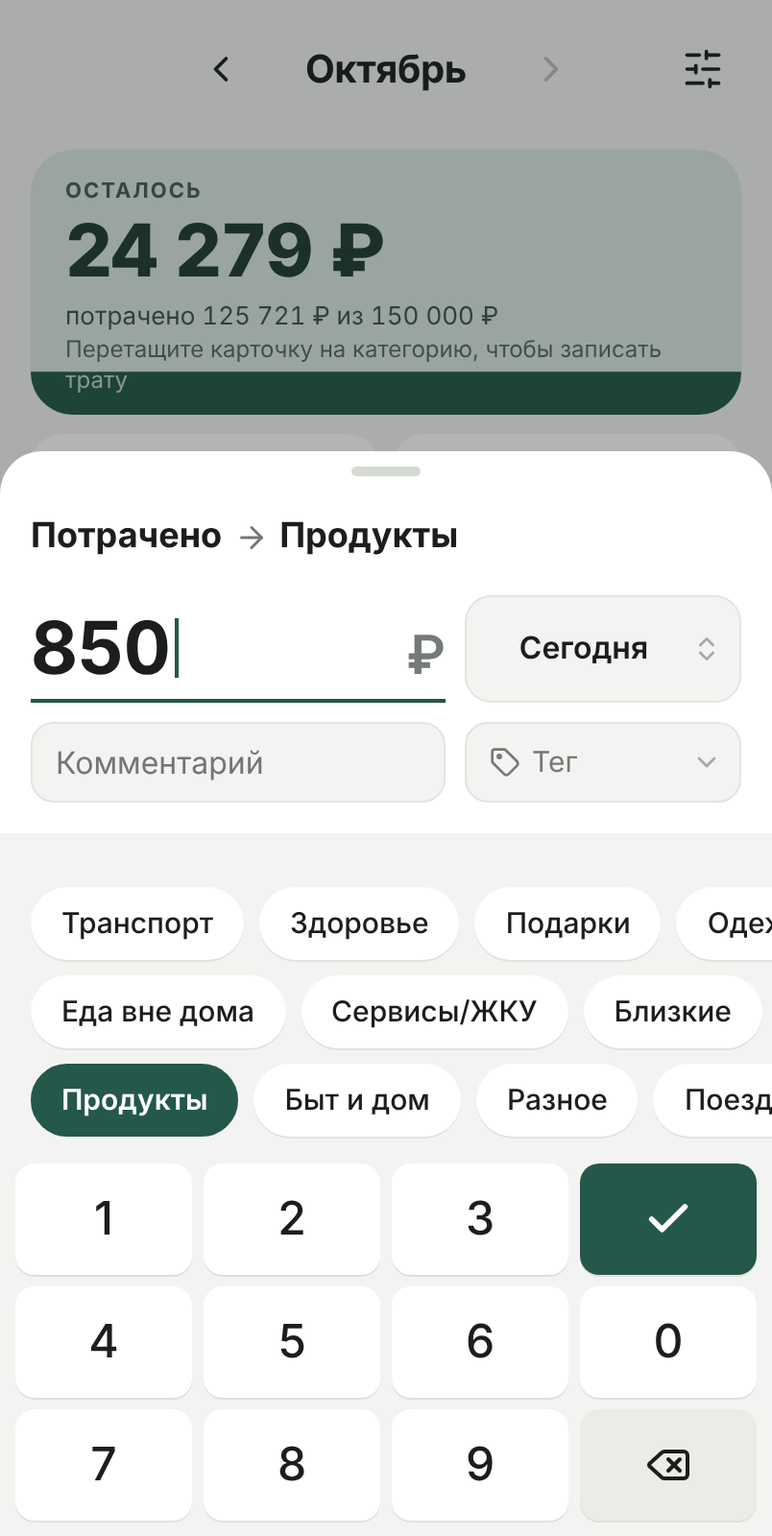
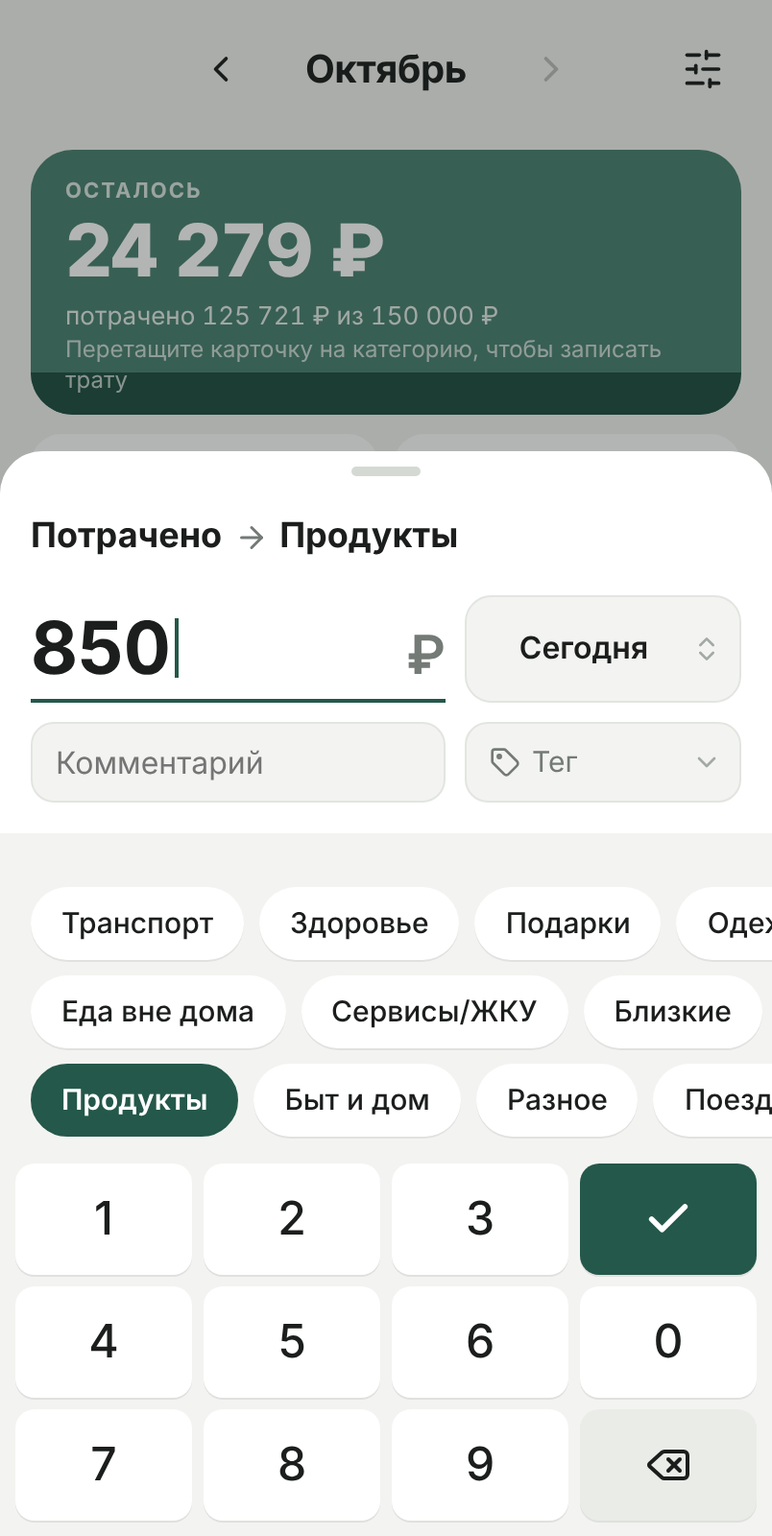
v14: карточка бюджета — мягкий уровень, тёмная и светлая на выбор
Claude-Session: https://claude.ai/code/session_01NUxBgaGxyd5sUVsPmVs4HK

Changed region(s): [[0.0311, 0.0938, 0.9639, 0.25]]

diff --git a/index.html b/index.html
@@ -26,7 +26,6 @@
   --track: #E6E9E4;
   --accent: #24584A;
   --accent-ink: #FFFFFF;
-  --level-light: #DCE7E0;
   --level-ink: #1F3B32;
   --danger: #D2382A;
   --danger-tint: #FCE9E6;
@@ -72,14 +71,15 @@ body.toasting .month { opacity: 0; }
 .demo { display: flex; align-items: center; gap: 12px; justify-content: space-between; background: #FFF6DD; color: #6A5312; border-radius: 14px; padding: 10px 12px; font-size: 13px; }
 .demo button { font-weight: 600; white-space: nowrap; color: #6A5312; text-decoration: underline; }
 
-/* Budget card as a level: dark fill = what is left of the month's budget, sinking as money is spent.
-   Two identical layers; the dark one is clipped to the fill height so text changes colour where the level crosses it. */
+/* Budget card as a level: the "water" = what is left of the month's budget, sinking as money is spent.
+   Water and the empty part are close in tone, so the text keeps one colour over both and is never cut by the waterline.
+   Two looks, switched in settings (S.settings.card): dark (default) and light. */
 .budget { display: block; }
-.bcard { position: relative; display: block; width: 100%; height: 138px; border-radius: 22px; overflow: hidden; text-align: left; touch-action: none; user-select: none; -webkit-user-select: none; -webkit-touch-callout: none; transition: transform .15s, opacity .15s; }
+.bcard { --top: #4A8070; --water: #1F4F42; --ink: #fff; position: relative; display: block; width: 100%; height: 138px; border-radius: 22px; overflow: hidden; text-align: left; background: var(--top); color: var(--ink); touch-action: none; user-select: none; -webkit-user-select: none; -webkit-touch-callout: none; transition: transform .15s, opacity .15s; }
+.bcard.light { --top: var(--surface); --water: #BFD5C7; --ink: var(--level-ink); }
+.bcard.over { --top: var(--danger-tint); --ink: var(--danger); }
+.bcard .water { position: absolute; left: 0; right: 0; bottom: 0; background: var(--water); }
 .bcard .layer { position: absolute; inset: 0; padding: 14px 18px 12px; display: flex; flex-direction: column; }
-.bcard .l1 { background: var(--level-light); color: var(--level-ink); }
-.bcard .l2 { background: var(--accent); color: #fff; }
-.bcard.over .l1 { background: var(--danger-tint); color: var(--danger); }
 .bcard .lab { font-size: 11px; letter-spacing: .09em; font-weight: 700; text-transform: uppercase; opacity: .8; }
 .bcard .big { font-family: var(--font-num); font-size: 38px; font-weight: 800; letter-spacing: -0.02em; line-height: 1.1; margin-top: 4px; font-variant-numeric: tabular-nums; white-space: nowrap; }
 .bcard .sp { font-size: 13px; margin-top: 4px; opacity: .85; font-variant-numeric: tabular-nums; }
@@ -541,11 +541,17 @@ function seed() {
     [9, 7270, 17, 'Билеты на поезд'],
   ];
   const tx = ex.map(([c, amount, dd, comment]) => ({ id: uid(), cat: cats[c].id, amount, date: day(dd), comment, demo: true }));
-  return { v: 1, budget: { [ym]: 150000 }, categories: cats, tx, tags: [], settings: { pace: false } };
+  return { v: 1, budget: { [ym]: 150000 }, categories: cats, tx, tags: [], settings: { pace: false, card: 'dark' } };
 }
 function load() {
-  try { const raw = localStorage.getItem(KEY); if (raw) { const d = JSON.parse(raw); if (d && Array.isArray(d.categories) && Array.isArray(d.tx)) { if (!Array.isArray(d.tags)) d.tags = []; return d; } } } catch (e) {}
+  try { const raw = localStorage.getItem(KEY); if (raw) { const d = JSON.parse(raw); if (d && Array.isArray(d.categories) && Array.isArray(d.tx)) { if (!Array.isArray(d.tags)) d.tags = []; fixSettings(d); return d; } } } catch (e) {}
   const s = seed(); S = s; save(); return s;
+}
+// settings added later than the data format: fill defaults so older data and imported copies keep working
+function fixSettings(d) {
+  d.settings = d.settings || {};
+  if (typeof d.settings.pace !== 'boolean') d.settings.pace = false;
+  if (d.settings.card !== 'light') d.settings.card = 'dark';
 }
 function save() {
   try { localStorage.setItem(KEY, JSON.stringify(S)); }
@@ -617,9 +623,9 @@ function render() {
   if (budget == null) body = cardBody('Потрачено', rub(total), 'Бюджет на месяц не задан');
   else if (over) body = cardBody('Перерасход', '−' + rub(-left), `потрачено ${rub(total)} из ${rub(budget)}`);
   else { body = cardBody('Осталось', rub(left), `потрачено ${rub(total)} из ${rub(budget)}`); level = left / budget; }
-  $('#budget').innerHTML = `<button class="bcard ${over ? 'over' : ''}" id="budget-src" aria-label="Добавить трату. Зажмите и перетащите на категорию">
-    <span class="layer l1">${body}</span>
-    ${level != null ? `<span class="layer l2" aria-hidden="true" style="clip-path: inset(${((1 - level) * 100).toFixed(2)}% 0 0 0)">${body}</span>` : ''}
+  $('#budget').innerHTML = `<button class="bcard ${S.settings.card === 'light' ? 'light' : ''} ${over ? 'over' : ''}" id="budget-src" aria-label="Добавить трату. Зажмите и перетащите на категорию">
+    ${level != null ? `<span class="water" aria-hidden="true" style="height: ${(level * 100).toFixed(2)}%"></span>` : ''}
+    <span class="layer">${body}</span>
   </button>`;
   setupDrag($('#budget-src'));
 
@@ -1272,9 +1278,9 @@ function animateChange(before, catId, RM) {
     const was = budget - before.total, now = budget - after.total;
     if (was >= 0 && now >= 0) {
       countUp(bigs, was, now, rub);
-      const l2 = $('#budget .l2');
-      if (l2) {
-        const a3 = l2.animate([{ clipPath: `inset(${((1 - was / budget) * 100).toFixed(2)}% 0 0 0)` }, { clipPath: l2.style.clipPath }], { duration: 520, easing: 'cubic-bezier(.3,.7,.3,1)' });
+      const w = $('#budget .water');
+      if (w) {
+        const a3 = w.animate([{ height: `${(was / budget * 100).toFixed(2)}%` }, { height: w.style.height }], { duration: 520, easing: 'cubic-bezier(.3,.7,.3,1)' });
         anims.push(() => a3.cancel());
       }
     }
@@ -1533,6 +1539,13 @@ function openSettings() {
     <hr>
     <button class="setrow" id="st-tags"><span class="grow">Теги</span><span class="sub" id="st-tags-n">${S.tags.length}/15</span>${icon('right')}</button>
     <hr>
+    <div class="field"><span>Карточка бюджета</span>
+      <div class="seg" role="radiogroup">
+        <label><input type="radio" name="st-card" value="dark" ${S.settings.card !== 'light' ? 'checked' : ''}>Тёмная</label>
+        <label><input type="radio" name="st-card" value="light" ${S.settings.card === 'light' ? 'checked' : ''}>Светлая</label>
+      </div>
+    </div>
+    <hr>
     <label class="switch"><input type="checkbox" id="st-pace" ${S.settings.pace ? 'checked' : ''}>
       <span><b>Подсвечивать темп трат</b><br><span class="sub">Сравниваем текущие расходы с остатком месяца. Первые дни месяца считаются как 12% лимита, чтобы одна покупка не окрашивала всё в красный. Если выключено, красным выделяется только перерасход.</span>
       <span class="legend"><span><i class="dot" style="background:${STATE_COLOR.idle}"></i>нет трат</span><span><i class="dot" style="background:${STATE_COLOR.ok}"></i>в темпе</span><span><i class="dot" style="background:${STATE_COLOR.warn}"></i>чуть быстрее</span><span><i class="dot" style="background:${STATE_COLOR.over}"></i>заметно быстрее или перерасход</span></span></span>
@@ -1553,6 +1566,7 @@ function openSettings() {
     setLimitFrom(S.budget, view, v); save(); render(); toast('Бюджет сохранён');
   };
   $('#st-pace', s).onchange = (e) => { S.settings.pace = e.target.checked; save(); render(); };
+  s.querySelectorAll('input[name="st-card"]').forEach((r) => { r.onchange = () => { S.settings.card = r.value; save(); render(); }; });
   $('#st-export', s).onclick = () => exportData($('#st-out', s));
   $('#st-import', s).onclick = () => $('#import-file').click();
 }
@@ -1583,7 +1597,7 @@ $('#import-file').addEventListener('change', (e) => {
     try {
       const d = JSON.parse(r.result);
       if (!d || !Array.isArray(d.categories) || !Array.isArray(d.tx)) throw new Error();
-      d.settings = d.settings || { pace: false }; d.budget = d.budget || {}; if (!Array.isArray(d.tags)) d.tags = [];
+      fixSettings(d); d.budget = d.budget || {}; if (!Array.isArray(d.tags)) d.tags = [];
       S = d; save(); render(); closeSheet(); toast(`Загружено: ${d.categories.length} категорий, ${d.tx.length} трат`);
     } catch (_) { toast('Файл не похож на копию данных этого приложения'); }
   };

diff --git a/src/app.html b/src/app.html
@@ -12,7 +12,6 @@
   --track: #E6E9E4;
   --accent: #24584A;
   --accent-ink: #FFFFFF;
-  --level-light: #DCE7E0;
   --level-ink: #1F3B32;
   --danger: #D2382A;
   --danger-tint: #FCE9E6;
@@ -58,14 +57,15 @@ body.toasting .month { opacity: 0; }
 .demo { display: flex; align-items: center; gap: 12px; justify-content: space-between; background: #FFF6DD; color: #6A5312; border-radius: 14px; padding: 10px 12px; font-size: 13px; }
 .demo button { font-weight: 600; white-space: nowrap; color: #6A5312; text-decoration: underline; }
 
-/* Budget card as a level: dark fill = what is left of the month's budget, sinking as money is spent.
-   Two identical layers; the dark one is clipped to the fill height so text changes colour where the level crosses it. */
+/* Budget card as a level: the "water" = what is left of the month's budget, sinking as money is spent.
+   Water and the empty part are close in tone, so the text keeps one colour over both and is never cut by the waterline.
+   Two looks, switched in settings (S.settings.card): dark (default) and light. */
 .budget { display: block; }
-.bcard { position: relative; display: block; width: 100%; height: 138px; border-radius: 22px; overflow: hidden; text-align: left; touch-action: none; user-select: none; -webkit-user-select: none; -webkit-touch-callout: none; transition: transform .15s, opacity .15s; }
+.bcard { --top: #4A8070; --water: #1F4F42; --ink: #fff; position: relative; display: block; width: 100%; height: 138px; border-radius: 22px; overflow: hidden; text-align: left; background: var(--top); color: var(--ink); touch-action: none; user-select: none; -webkit-user-select: none; -webkit-touch-callout: none; transition: transform .15s, opacity .15s; }
+.bcard.light { --top: var(--surface); --water: #BFD5C7; --ink: var(--level-ink); }
+.bcard.over { --top: var(--danger-tint); --ink: var(--danger); }
+.bcard .water { position: absolute; left: 0; right: 0; bottom: 0; background: var(--water); }
 .bcard .layer { position: absolute; inset: 0; padding: 14px 18px 12px; display: flex; flex-direction: column; }
-.bcard .l1 { background: var(--level-light); color: var(--level-ink); }
-.bcard .l2 { background: var(--accent); color: #fff; }
-.bcard.over .l1 { background: var(--danger-tint); color: var(--danger); }
 .bcard .lab { font-size: 11px; letter-spacing: .09em; font-weight: 700; text-transform: uppercase; opacity: .8; }
 .bcard .big { font-family: var(--font-num); font-size: 38px; font-weight: 800; letter-spacing: -0.02em; line-height: 1.1; margin-top: 4px; font-variant-numeric: tabular-nums; white-space: nowrap; }
 .bcard .sp { font-size: 13px; margin-top: 4px; opacity: .85; font-variant-numeric: tabular-nums; }
@@ -524,11 +524,17 @@ function seed() {
     [9, 7270, 17, 'Билеты на поезд'],
   ];
   const tx = ex.map(([c, amount, dd, comment]) => ({ id: uid(), cat: cats[c].id, amount, date: day(dd), comment, demo: true }));
-  return { v: 1, budget: { [ym]: 150000 }, categories: cats, tx, tags: [], settings: { pace: false } };
+  return { v: 1, budget: { [ym]: 150000 }, categories: cats, tx, tags: [], settings: { pace: false, card: 'dark' } };
 }
 function load() {
-  try { const raw = localStorage.getItem(KEY); if (raw) { const d = JSON.parse(raw); if (d && Array.isArray(d.categories) && Array.isArray(d.tx)) { if (!Array.isArray(d.tags)) d.tags = []; return d; } } } catch (e) {}
+  try { const raw = localStorage.getItem(KEY); if (raw) { const d = JSON.parse(raw); if (d && Array.isArray(d.categories) && Array.isArray(d.tx)) { if (!Array.isArray(d.tags)) d.tags = []; fixSettings(d); return d; } } } catch (e) {}
   const s = seed(); S = s; save(); return s;
+}
+// settings added later than the data format: fill defaults so older data and imported copies keep working
+function fixSettings(d) {
+  d.settings = d.settings || {};
+  if (typeof d.settings.pace !== 'boolean') d.settings.pace = false;
+  if (d.settings.card !== 'light') d.settings.card = 'dark';
 }
 function save() {
   try { localStorage.setItem(KEY, JSON.stringify(S)); }
@@ -600,9 +606,9 @@ function render() {
   if (budget == null) body = cardBody('Потрачено', rub(total), 'Бюджет на месяц не задан');
   else if (over) body = cardBody('Перерасход', '−' + rub(-left), `потрачено ${rub(total)} из ${rub(budget)}`);
   else { body = cardBody('Осталось', rub(left), `потрачено ${rub(total)} из ${rub(budget)}`); level = left / budget; }
-  $('#budget').innerHTML = `<button class="bcard ${over ? 'over' : ''}" id="budget-src" aria-label="Добавить трату. Зажмите и перетащите на категорию">
-    <span class="layer l1">${body}</span>
-    ${level != null ? `<span class="layer l2" aria-hidden="true" style="clip-path: inset(${((1 - level) * 100).toFixed(2)}% 0 0 0)">${body}</span>` : ''}
+  $('#budget').innerHTML = `<button class="bcard ${S.settings.card === 'light' ? 'light' : ''} ${over ? 'over' : ''}" id="budget-src" aria-label="Добавить трату. Зажмите и перетащите на категорию">
+    ${level != null ? `<span class="water" aria-hidden="true" style="height: ${(level * 100).toFixed(2)}%"></span>` : ''}
+    <span class="layer">${body}</span>
   </button>`;
   setupDrag($('#budget-src'));
 
@@ -1255,9 +1261,9 @@ function animateChange(before, catId, RM) {
     const was = budget - before.total, now = budget - after.total;
     if (was >= 0 && now >= 0) {
       countUp(bigs, was, now, rub);
-      const l2 = $('#budget .l2');
-      if (l2) {
-        const a3 = l2.animate([{ clipPath: `inset(${((1 - was / budget) * 100).toFixed(2)}% 0 0 0)` }, { clipPath: l2.style.clipPath }], { duration: 520, easing: 'cubic-bezier(.3,.7,.3,1)' });
+      const w = $('#budget .water');
+      if (w) {
+        const a3 = w.animate([{ height: `${(was / budget * 100).toFixed(2)}%` }, { height: w.style.height }], { duration: 520, easing: 'cubic-bezier(.3,.7,.3,1)' });
         anims.push(() => a3.cancel());
       }
     }
@@ -1516,6 +1522,13 @@ function openSettings() {
     <hr>
     <button class="setrow" id="st-tags"><span class="grow">Теги</span><span class="sub" id="st-tags-n">${S.tags.length}/15</span>${icon('right')}</button>
     <hr>
+    <div class="field"><span>Карточка бюджета</span>
+      <div class="seg" role="radiogroup">
+        <label><input type="radio" name="st-card" value="dark" ${S.settings.card !== 'light' ? 'checked' : ''}>Тёмная</label>
+        <label><input type="radio" name="st-card" value="light" ${S.settings.card === 'light' ? 'checked' : ''}>Светлая</label>
+      </div>
+    </div>
+    <hr>
     <label class="switch"><input type="checkbox" id="st-pace" ${S.settings.pace ? 'checked' : ''}>
       <span><b>Подсвечивать темп трат</b><br><span class="sub">Сравниваем текущие расходы с остатком месяца. Первые дни месяца считаются как 12% лимита, чтобы одна покупка не окрашивала всё в красный. Если выключено, красным выделяется только перерасход.</span>
       <span class="legend"><span><i class="dot" style="background:${STATE_COLOR.idle}"></i>нет трат</span><span><i class="dot" style="background:${STATE_COLOR.ok}"></i>в темпе</span><span><i class="dot" style="background:${STATE_COLOR.warn}"></i>чуть быстрее</span><span><i class="dot" style="background:${STATE_COLOR.over}"></i>заметно быстрее или перерасход</span></span></span>
@@ -1536,6 +1549,7 @@ function openSettings() {
     setLimitFrom(S.budget, view, v); save(); render(); toast('Бюджет сохранён');
   };
   $('#st-pace', s).onchange = (e) => { S.settings.pace = e.target.checked; save(); render(); };
+  s.querySelectorAll('input[name="st-card"]').forEach((r) => { r.onchange = () => { S.settings.card = r.value; save(); render(); }; });
   $('#st-export', s).onclick = () => exportData($('#st-out', s));
   $('#st-import', s).onclick = () => $('#import-file').click();
 }
@@ -1566,7 +1580,7 @@ $('#import-file').addEventListener('change', (e) => {
     try {
       const d = JSON.parse(r.result);
       if (!d || !Array.isArray(d.categories) || !Array.isArray(d.tx)) throw new Error();
-      d.settings = d.settings || { pace: false }; d.budget = d.budget || {}; if (!Array.isArray(d.tags)) d.tags = [];
+      fixSettings(d); d.budget = d.budget || {}; if (!Array.isArray(d.tags)) d.tags = [];
       S = d; save(); render(); closeSheet(); toast(`Загружено: ${d.categories.length} категорий, ${d.tx.length} трат`);
     } catch (_) { toast('Файл не похож на копию данных этого приложения'); }
   };

diff --git a/sw.js b/sw.js
@@ -1,5 +1,5 @@
 // Generated by build.py. VERSION changes on every release so phones pick up the new files.
-const VERSION = 'v13';
+const VERSION = 'v14';
 const FILES = ['./', './index.html', './manifest.json', './icon-180.png', './icon-192.png', './icon-512.png'];
 self.addEventListener('install', (e) => { e.waitUntil(caches.open(VERSION).then((c) => c.addAll(FILES))); self.skipWaiting(); });
 self.addEventListener('activate', (e) => { e.waitUntil(caches.keys().then((ks) => Promise.all(ks.filter((k) => k !== VERSION).map((k) => caches.delete(k))))); self.clients.claim(); });

diff --git a/docs/shoot.py b/docs/shoot.py
@@ -32,8 +32,8 @@ TX = [
     ('c6', 16676, '10', 'Квартплата и интернет', ['t3']), ('c7', 588, '14', 'Открытка и цветы', []),
     ('c8', 8749, '13', '', []), ('c9', 16032, '07', 'Маме на день рождения', []), ('c10', 7270, '17', 'Билеты на поезд', ['t2']),
 ]
-def data(budget=150000, tx=True, tags=True):
-    return {'v': 1, 'budget': {'2026-09': budget}, 'categories': CATS, 'settings': {'pace': True},
+def data(budget=150000, tx=True, tags=True, card='dark'):
+    return {'v': 1, 'budget': {'2026-09': budget}, 'categories': CATS, 'settings': {'pace': True, 'card': card},
             'tags': TAGS if tags else [],
             'tx': [{'id': f'x{i}', 'cat': c, 'amount': a, 'date': f'2026-10-{d}', 'comment': cm, 'tags': tg}
                    for i, (c, a, d, cm, tg) in enumerate(TX)] if tx else []}
@@ -68,6 +68,7 @@ with sync_playwright() as p:
     pg = page(data()); snap(pg, '01-main')
     pg = page(data(budget=120000)); snap(pg, '02-main-overrun')
     pg = page(data(tx=False)); snap(pg, '03-main-month-start')
+    pg = page(data(card='light')); snap(pg, '23-main-light')
 
     # drag the budget card onto a category
     pg = page(data())

diff --git a/build.py b/build.py
@@ -7,7 +7,7 @@ Bump VERSION on every release: phones only pick up new files when the service wo
 import json, pathlib, re
 from PIL import Image, ImageDraw
 
-VERSION = 'v13'
+VERSION = 'v14'
 ROOT = pathlib.Path(__file__).parent
 app = (ROOT / 'src/app.html').read_text()
 

diff --git a/docs/SPEC.md b/docs/SPEC.md
@@ -1,6 +1,6 @@
 # Спецификация: Месячный бюджет
 
-Текущая версия: **v13** (31.10.2026). Документ описывает, как приложение работает сейчас. Почему сделано именно так — в [DECISIONS.md](DECISIONS.md), как выглядит — в [DESIGN.md](DESIGN.md), что менялось — в [CHANGELOG.md](CHANGELOG.md).
+Текущая версия: **v14** (31.10.2026). Документ описывает, как приложение работает сейчас. Почему сделано именно так — в [DECISIONS.md](DECISIONS.md), как выглядит — в [DESIGN.md](DESIGN.md), что менялось — в [CHANGELOG.md](CHANGELOG.md).
 
 Скриншоты в `screens/` делает `docs/shoot.py` из кода на примерах данных, на дату пн 26.10.2026.
 
@@ -40,9 +40,11 @@
     "comment": "Магнит", "tags": ["<id тега>"], "demo": true
   }],
   "tags": [{ "id": "…", "name": "Отпуск на море" }],
-  "settings": { "pace": false }
+  "settings": { "pace": false, "card": "dark" }
 }
 ```
+
+`settings.card` — вид карточки бюджета: `dark` или `light`. В старых данных и импортированных копиях без этого поля ставится `dark`.
 
 | Поле | Правило |
 |---|---|
@@ -83,7 +85,7 @@
 
 ## 3. Главный экран
 
-<img src="screens/01-main.png" width="240"> <img src="screens/02-main-overrun.png" width="240"> <img src="screens/03-main-month-start.png" width="240">
+<img src="screens/01-main.png" width="240"> <img src="screens/02-main-overrun.png" width="240"> <img src="screens/03-main-month-start.png" width="240"> <img src="screens/23-main-light.png" width="240">
 
 Слева направо: обычный месяц; перерасход общего бюджета; начало месяца без трат.
 
@@ -105,11 +107,13 @@
 
 Высота 138 px. Это источник перетаскивания и кнопка ввода траты.
 
-- **Заливка.** Тёмно-зелёный слой снизу показывает долю остатка: `остаток / бюджет`. В начале месяца без трат вся карточка тёмная, по мере трат уровень опускается. Над уровнем светлый фон.
-- **Двухцветный текст.** Карточка состоит из двух одинаковых слоёв: светлого с тёмным текстом и тёмного с белым. Тёмный слой обрезан `clip-path` по уровню, поэтому текст меняет цвет там, где его пересекает граница.
+- **Заливка («вода»).** Слой снизу показывает долю остатка: `остаток / бюджет`. В начале месяца без трат вода заполняет всю карточку, по мере трат уровень опускается.
+- **Вода и пустая часть близки по тону,** поэтому текст одного цвета читается на обеих и линия воды его не разрезает. Два вида, переключаются в настройках (раздел 9):
+  - **тёмная** (по умолчанию): пустая часть `#4A8070`, вода `#1F4F42`, текст белый;
+  - **светлая**: пустая часть белая, вода `#BFD5C7`, текст тёмный `--level-ink`.
 - **Содержимое:** «ОСТАЛОСЬ», крупно остаток, строка «потрачено 125 721 ₽ из 150 000 ₽», подсказка «Перетащите карточку на категорию, чтобы записать трату».
 - **Перерасход:** карточка розовая без заливки, «ПЕРЕРАСХОД», красное «−5 721 ₽».
-- **Бюджет не задан:** светлая карточка, «ПОТРАЧЕНО», сумма трат, «Бюджет на месяц не задан».
+- **Бюджет не задан:** карточка без воды (цвет пустой части), «ПОТРАЧЕНО», сумма трат, «Бюджет на месяц не задан».
 - Цвет состояния (раздел 2.3) к карточке не применяется.
 - Короткое нажатие открывает ввод траты без выбранной категории.
 - Перетаскивание открывает ввод с выбранной категорией (3.5).
@@ -386,6 +390,7 @@
 Шторка по кнопке в шапке.
 - **Общий бюджет на месяц**, с открытого месяца и дальше. Разряды разделяются при вводе (`150000 → 150 000`). Кнопка «Сохранить бюджет».
 - Строка **«Теги · n/15 ›»** открывает страницу тегов.
+- **«Карточка бюджета»** — переключатель «Тёмная / Светлая» (3.3). Применяется сразу.
 - **«Подсвечивать темп трат»** — переключатель с пояснением: «Сравниваем текущие расходы с остатком месяца. Первые дни месяца считаются как 12% лимита, чтобы одна покупка не окрашивала всё в красный. Если выключено, красным выделяется только перерасход.» Легенда цветов: нет трат, в темпе, чуть быстрее, заметно быстрее или перерасход.
 - **Резервная копия:** «Данные хранятся только на этом устройстве. Делайте копию раз в пару недель.»
   - «Сохранить копию данных» открывает системное меню «Поделиться» с файлом `budget-YYYY-MM-DD.json`. Если меню недоступно, показывается текст для копирования.

diff --git a/docs/DECISIONS.md b/docs/DECISIONS.md
@@ -23,6 +23,8 @@
 - **Категории без лимита: серый без трат, зелёный при тратах, красными не бывают.** (v4)
 - **Карточка бюджета не красится по состоянию:** заливка всегда тёмно-зелёная, при перерасходе карточка розовая. (v4, v6)
 - **Карточка бюджета — «уровень» с заливкой остатка, без отметок «где должен быть уровень сегодня».** Оранжевые отметки из макета убрали как лишние. (v6)
+- **Уровень на карточке приглушён: вода и пустая часть близки по тону, текст одного цвета.** Раньше светлый верх и тёмная вода были контрастными, текст менял цвет на линии воды и резался по буквам, цифры плохо читались. Сравнивали: текст на «стекле» поверх уровня (Г, в т. ч. с рамкой 12–26 px), уровень — обводка карточки, кривая остатка за месяц, текст-поплавок над линией воды, тонкая линия уровня (перечёркивала цифры). (v14)
+- **Два вида карточки — тёмная и светлая, переключатель в настройках, по умолчанию тёмная.** Владелец не выбрал один: тёмная фирменная, светлая спокойнее. Светлая пустая часть белая, а не `#F1F4F1` из мокапа: иначе при малом остатке край карточки сливался с фоном. (v14)
 - **Плитки категорий в 2 столбца, иконка перед названием (вариант «Б»).** Сравнивали три варианта: без иконок, иконка перед названием, иконка в углу. (v6)
 - **Перетаскивается вся карточка бюджета, а не кружок.** (v6)
 - **Нижняя панель — «холм» во всю ширину, а не круглая кнопка.** Она уравновешивает шапку. (v2, оставлено в v6)

diff --git a/docs/DESIGN.md b/docs/DESIGN.md
@@ -25,10 +25,11 @@
 | `--track` | `#E6E9E4` | фон полосок прогресса |
 | `--accent` | `#24584A` | фирменный тёмно-зелёный: заливка карточки, нижняя панель, ✓, выбранный чипс, кнопки |
 | `--accent-ink` | `#FFFFFF` | текст на акценте |
-| `--level-light` | `#DCE7E0` | карточка бюджета над уровнем |
-| `--level-ink` | `#1F3B32` | текст карточки на светлой части |
+| `--level-ink` | `#1F3B32` | текст светлой карточки бюджета |
 | `--danger` | `#D2382A` | перерасход, удаление, ошибки |
 | `--danger-tint` | `#FCE9E6` | фон карточки при перерасходе |
+
+**Карточка бюджета** (переменные `--top`, `--water`, `--ink` на `.bcard`): тёмная — пустая часть `#4A8070`, вода `#1F4F42`, текст белый; светлая (`.bcard.light`) — пустая часть `--surface`, вода `#BFD5C7`, текст `--level-ink`; перерасход — `--danger-tint` без воды, текст `--danger`.
 
 **Цвета состояния** (`STATE_COLOR` в коде): нет трат `#8C928E`, в темпе `#2F9A5B`, чуть быстрее `#D08A0C`, перерасход или заметно быстрее `#D2382A`. Нейтральный цвет иконок в шторках — `#56605A`.
 

diff --git a/docs/CHANGELOG.md b/docs/CHANGELOG.md
@@ -2,6 +2,11 @@
 
 Номер версии = `VERSION` в `build.py` (имя кэша service worker). Даты — 2026 год.
 
+## v14 — 31.10 · Карточка бюджета
+- Уровень на карточке стал мягче: вода и пустая часть близки по тону, текст одного цвета и больше не режется линией воды.
+- В настройках — «Карточка бюджета: Тёмная / Светлая». По умолчанию тёмная.
+- Новый скриншот `23-main-light`.
+
 ## v13 — 31.10 · Форма траты
 - Дата: вместо барабана в кнопке — колесо как в будильнике iOS. Всплывает над кнопкой при касании, крутится тем же жестом, с инерцией; в покое в кнопке только дата и ⌃⌄.
 - Форма разделена на белый блок (сумма, дата, комментарий, тег) и серый лоток во всю ширину (категории и цифры). Чипсы белые.
